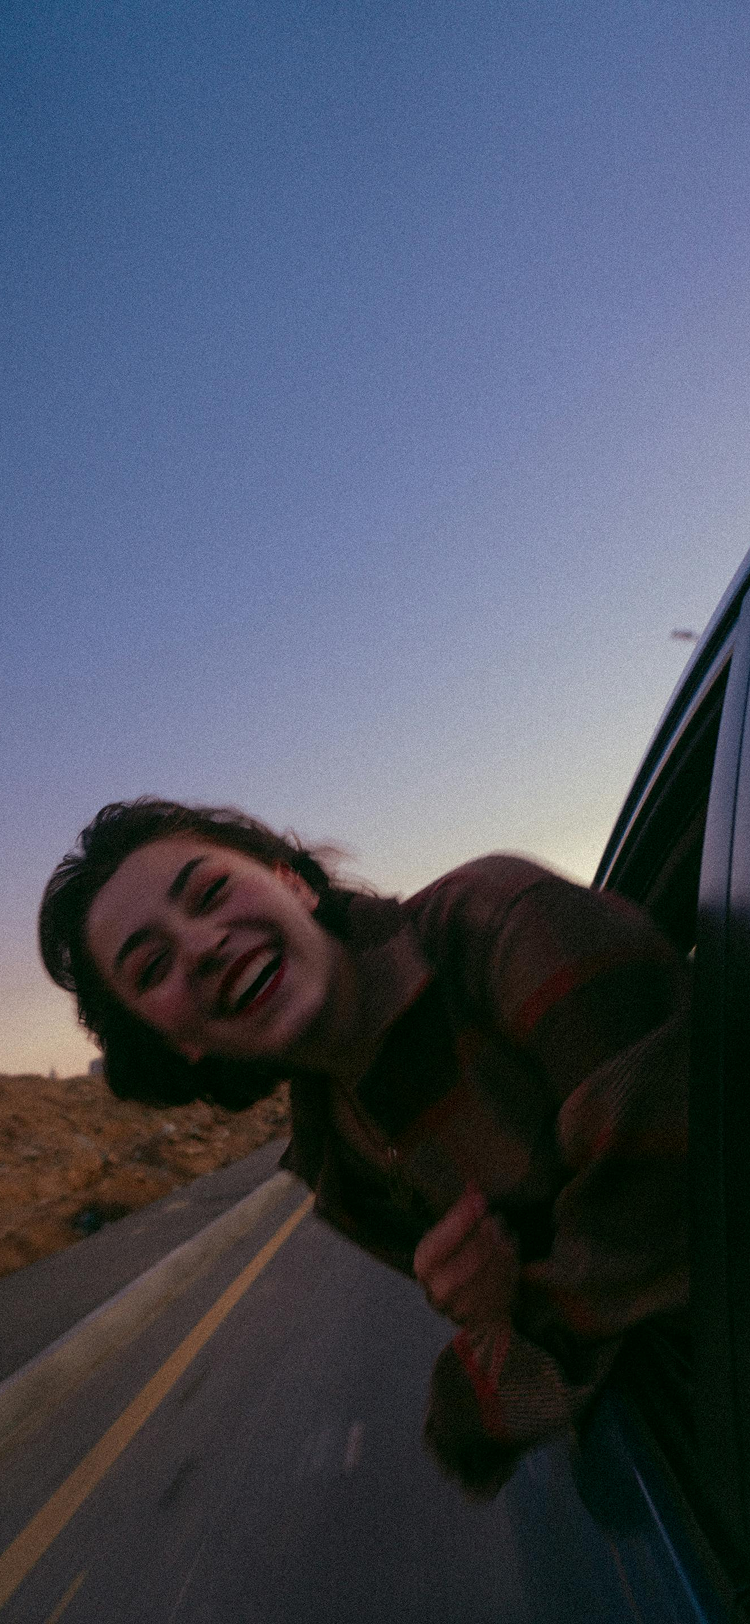
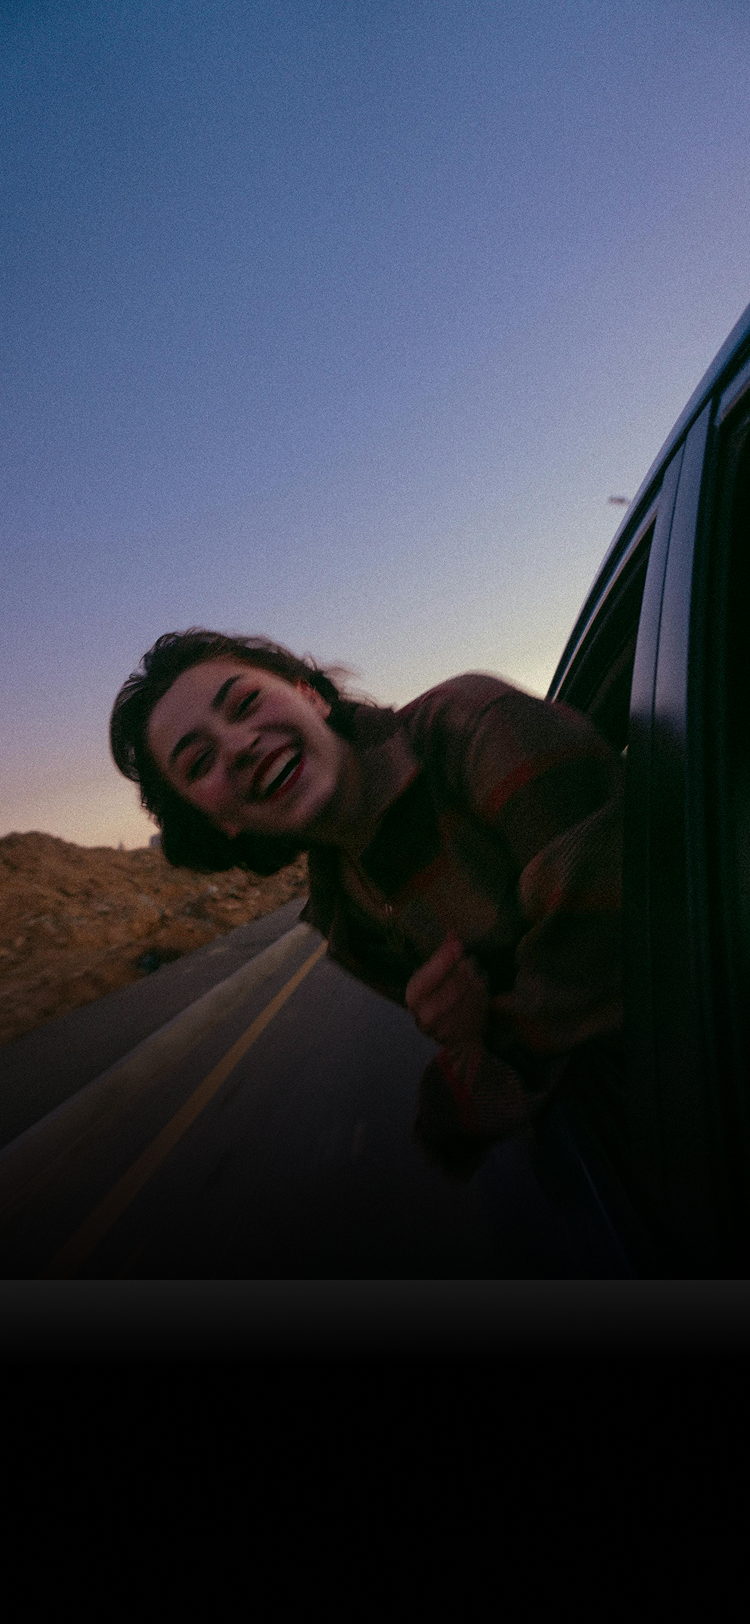
app pages images updated

diff --git a/src/app/(page)/application/ui/swiper/index.tsx b/src/app/(page)/application/ui/swiper/index.tsx
@@ -61,7 +61,7 @@ export const VerticalScroll = () => {
         {images.map(({ img, title, subtitle }) => (
           <SwiperSlide className="h-full select-none" key={img}>
             <Post img={img} />
-            <div className="absolute top-0 bottom-0 left-0 right-0 flex flex-col content-end bg-gradient-to-b from-transparent to-black px-4 select-none">
+            <div className="absolute top-0 bottom-0 left-0 right-0 flex flex-col content-end px-4 select-none">
               <div className="mb-16 mt-auto">
                 <h1 className="text-4xl sm:text-3xl uppercase font-black font-apple text-balance">
                   {title}
@@ -77,7 +77,7 @@ export const VerticalScroll = () => {
         ))}
         <SwiperSlide className="h-full select-none">
           <Post img="/assets/img/application/post-6.png" />
-          <div className="absolute top-0 bottom-0 left-0 right-0 flex flex-col content-end bg-gradient-to-b from-transparent to-black px-4 select-none">
+          <div className="absolute top-0 bottom-0 left-0 right-0 flex flex-col content-end px-4 select-none">
             <div className="mt-auto mb-9">
               <div className="text-center">
                 <div className="mb-10">
